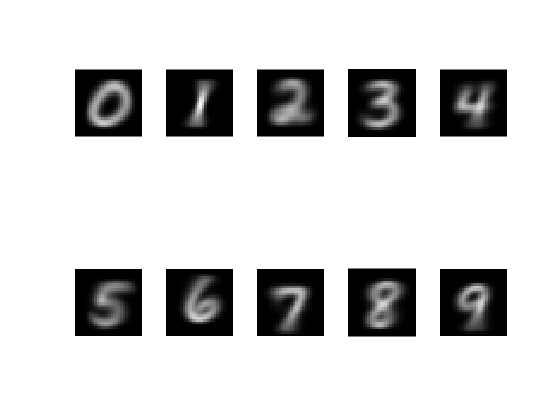
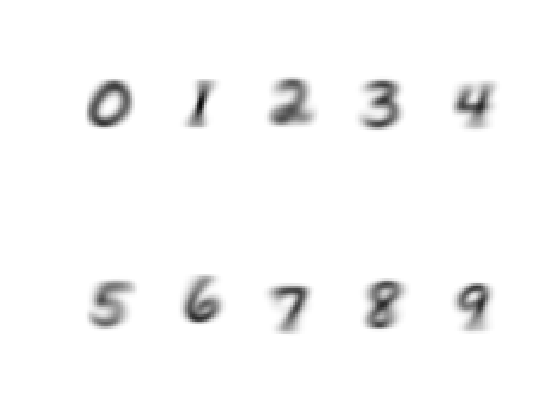
update

diff --git a/html/load_data.html b/html/load_data.html
@@ -6,7 +6,7 @@
    <!--
 This HTML was auto-generated from MATLAB code.
 To make changes, update the MATLAB code and republish this document.
-      --><title>load_data</title><meta name="generator" content="MATLAB 9.0"><link rel="schema.DC" href="http://purl.org/dc/elements/1.1/"><meta name="DC.date" content="2018-03-10"><meta name="DC.source" content="load_data.m"><style type="text/css">
+      --><title>load_data</title><meta name="generator" content="MATLAB 9.0"><link rel="schema.DC" href="http://purl.org/dc/elements/1.1/"><meta name="DC.date" content="2018-03-14"><meta name="DC.source" content="load_data.m"><style type="text/css">
 html,body,div,span,applet,object,iframe,h1,h2,h3,h4,h5,h6,p,blockquote,pre,a,abbr,acronym,address,big,cite,code,del,dfn,em,font,img,ins,kbd,q,s,samp,small,strike,strong,sub,sup,tt,var,b,u,i,center,dl,dt,dd,ol,ul,li,fieldset,form,label,legend,table,caption,tbody,tfoot,thead,tr,th,td{margin:0;padding:0;border:0;outline:0;font-size:100%;vertical-align:baseline;background:transparent}body{line-height:1}ol,ul{list-style:none}blockquote,q{quotes:none}blockquote:before,blockquote:after,q:before,q:after{content:'';content:none}:focus{outine:0}ins{text-decoration:none}del{text-decoration:line-through}table{border-collapse:collapse;border-spacing:0}
 
 html { min-height:100%; margin-bottom:1px; }
@@ -66,73 +66,13 @@ table td { padding:7px 5px; text-align:left; vertical-align:top; border:1px soli
 
 
 
-  </style></head><body><div class="content"><h2>Contents</h2><div><ul><li><a href="#2">Select digit</a></li><li><a href="#3">Visualize a selected train/test digit</a></li><li><a href="#4">Plot the average train digits</a></li></ul></div><pre class="codeinput"><span class="comment">%MAT 128b Project 2</span>
-<span class="comment">%Load MNIST data of handwritten digits</span>
+  </style></head><body><div class="content"><h2>Contents</h2><div><ul><li><a href="#1">load_data.m</a></li><li><a href="#2">Select digit</a></li><li><a href="#3">Visualize a selected train/test digit</a></li><li><a href="#4">Plot the average train digits</a></li></ul></div><h2>load_data.m<a name="1"></a></h2><pre class="codeinput"><span class="comment">%MAT 128b Project 2 - Part 1 &amp; 2</span>
+<span class="comment">%Load MNIST data &amp; Plot it</span>
 clear; clc; close <span class="string">all</span>;
 load <span class="string">mnistdata</span>;
-</pre><h2>Select digit<a name="2"></a></h2><pre class="codeinput">digit = 5;
+</pre><h2>Select digit<a name="2"></a></h2><pre class="codeinput">digit = 4;
 train = 1; <span class="comment">%if 0, will use test digit instead</span>
-</pre><h2>Visualize a selected train/test digit<a name="3"></a></h2><pre class="codeinput"><span class="keyword">if</span> digit == 0
-    <span class="keyword">if</span> train == 1
-        TestTrainDigit = train0;
-    <span class="keyword">else</span>
-        TestTrainDigit = test0;
-    <span class="keyword">end</span>
-<span class="keyword">elseif</span> digit == 1
-    <span class="keyword">if</span> train == 1
-        TestTrainDigit = train1;
-    <span class="keyword">else</span>
-        TestTrainDigit = test1;
-    <span class="keyword">end</span>
-<span class="keyword">elseif</span> digit == 2
-    <span class="keyword">if</span> train == 1
-        TestTrainDigit = train2;
-    <span class="keyword">else</span>
-        TestTrainDigit = test2;
-    <span class="keyword">end</span>
- <span class="keyword">elseif</span> digit == 3
-    <span class="keyword">if</span> train == 1
-        TestTrainDigit = train3;
-    <span class="keyword">else</span>
-        TestTrainDigit = test3;
-    <span class="keyword">end</span>
-<span class="keyword">elseif</span> digit == 4
-    <span class="keyword">if</span> train == 1
-        TestTrainDigit = train4;
-    <span class="keyword">else</span>
-        TestTrainDigit = test4;
-    <span class="keyword">end</span>
-<span class="keyword">elseif</span> digit == 5
-    <span class="keyword">if</span> train == 1
-        TestTrainDigit = train5;
-    <span class="keyword">else</span>
-        TestTrainDigit = test5;
-    <span class="keyword">end</span>
-<span class="keyword">elseif</span> digit == 6
-    <span class="keyword">if</span> train == 1
-        TestTrainDigit = train6;
-    <span class="keyword">else</span>
-        TestTrainDigit = test6;
-    <span class="keyword">end</span>
-<span class="keyword">elseif</span> digit == 7
-    <span class="keyword">if</span> train == 1
-        TestTrainDigit = train7;
-    <span class="keyword">else</span>
-        TestTrainDigit = test7;
-    <span class="keyword">end</span>
-<span class="keyword">elseif</span> digit == 8
-    <span class="keyword">if</span> train == 1
-        TestTrainDigit = train8;
-    <span class="keyword">else</span>
-        TestTrainDigit = test8;
-    <span class="keyword">end</span>
-<span class="keyword">elseif</span> digit == 9
-    <span class="keyword">if</span> train == 1
-        TestTrainDigit = train9;
-    <span class="keyword">else</span>
-        TestTrainDigit = test9;
-    <span class="keyword">end</span>
-<span class="keyword">end</span>
+</pre><h2>Visualize a selected train/test digit<a name="3"></a></h2><pre class="codeinput">TestTrainDigit = getMNIST(digit, train);
 
 <span class="comment">%Plot the desired digit</span>
 f1 = figure;
@@ -140,138 +80,57 @@ f1 = figure;
    digitImage = reshape(TestTrainDigit(i,:), 28, 28);
    subplot(1,3,i);
    image(rot90(flipud(digitImage), -1));
-   colormap(gray(256));
+   colormap(flipud(gray(256)));
    axis <span class="string">square</span> <span class="string">tight</span> <span class="string">off</span>;
 <span class="keyword">end</span>
-</pre><img vspace="5" hspace="5" src="load_data_01.png" alt=""> <h2>Plot the average train digits<a name="4"></a></h2><pre class="codeinput">T(1,:) = mean(train0);
-T(2,:) = mean(train1);
-T(3,:) = mean(train2);
-T(4,:) = mean(train3);
-T(5,:) = mean(train4);
-T(6,:) = mean(train5);
-T(7,:) = mean(train6);
-T(8,:) = mean(train7);
-T(9,:) = mean(train8);
-T(10,:) = mean(train9);
-
-digitImage_mean = zeros(28,28,10);
+</pre><img vspace="5" hspace="5" src="load_data_01.png" alt=""> <h2>Plot the average train digits<a name="4"></a></h2><pre class="codeinput">digitImage_mean = zeros(28,28,10);
 <span class="keyword">for</span> i = 1:10
-    digitImage_mean(:,:,i) = reshape(T(i,:),28,28);
+    digitImage_mean(:,:,i) = reshape(getTARGET(i-1),28,28);
 <span class="keyword">end</span>
 
 f2 = figure;
 <span class="keyword">for</span> i = 1:10
     subplot(2,5,i)
     image(rot90(flipud(digitImage_mean(:,:,i)),-1));
-    colormap(gray(256));
+    colormap(flipud(gray(256)));
     axis <span class="string">square</span> <span class="string">tight</span> <span class="string">off</span>;
 <span class="keyword">end</span>
 </pre><img vspace="5" hspace="5" src="load_data_02.png" alt=""> <p class="footer"><br><a href="http://www.mathworks.com/products/matlab/">Published with MATLAB&reg; R2016a</a><br></p></div><!--
 ##### SOURCE BEGIN #####
-%MAT 128b Project 2
-%Load MNIST data of handwritten digits
+%% load_data.m
+%MAT 128b Project 2 - Part 1 & 2
+%Load MNIST data & Plot it
 clear; clc; close all;
 load mnistdata;
 
 %% Select digit
-digit = 5;
+digit = 4;
 train = 1; %if 0, will use test digit instead
 
 %% Visualize a selected train/test digit
-if digit == 0
-    if train == 1
-        TestTrainDigit = train0;
-    else
-        TestTrainDigit = test0;
-    end
-elseif digit == 1
-    if train == 1
-        TestTrainDigit = train1;
-    else
-        TestTrainDigit = test1;
-    end
-elseif digit == 2
-    if train == 1
-        TestTrainDigit = train2;
-    else
-        TestTrainDigit = test2;
-    end
- elseif digit == 3
-    if train == 1
-        TestTrainDigit = train3;
-    else
-        TestTrainDigit = test3;
-    end
-elseif digit == 4
-    if train == 1
-        TestTrainDigit = train4;
-    else
-        TestTrainDigit = test4;
-    end
-elseif digit == 5
-    if train == 1
-        TestTrainDigit = train5;
-    else
-        TestTrainDigit = test5;
-    end
-elseif digit == 6
-    if train == 1
-        TestTrainDigit = train6;
-    else
-        TestTrainDigit = test6;
-    end
-elseif digit == 7
-    if train == 1
-        TestTrainDigit = train7;
-    else
-        TestTrainDigit = test7;
-    end
-elseif digit == 8
-    if train == 1
-        TestTrainDigit = train8;
-    else
-        TestTrainDigit = test8;
-    end    
-elseif digit == 9
-    if train == 1
-        TestTrainDigit = train9;
-    else
-        TestTrainDigit = test9;
-    end
-end
+TestTrainDigit = getMNIST(digit, train);
     
 %Plot the desired digit
 f1 = figure; 
 for i = 1:3
    digitImage = reshape(TestTrainDigit(i,:), 28, 28);
    subplot(1,3,i); 
-   image(rot90(flipud(digitImage), -1)); 
-   colormap(gray(256)); 
+   image(rot90(flipud(digitImage), -1));
+   colormap(flipud(gray(256))); 
    axis square tight off; 
 end 
 
 %% Plot the average train digits   
-T(1,:) = mean(train0); 
-T(2,:) = mean(train1); 
-T(3,:) = mean(train2); 
-T(4,:) = mean(train3); 
-T(5,:) = mean(train4); 
-T(6,:) = mean(train5); 
-T(7,:) = mean(train6); 
-T(8,:) = mean(train7); 
-T(9,:) = mean(train8); 
-T(10,:) = mean(train9); 
-
 digitImage_mean = zeros(28,28,10);
 for i = 1:10 
-    digitImage_mean(:,:,i) = reshape(T(i,:),28,28);
+    digitImage_mean(:,:,i) = reshape(getTARGET(i-1),28,28);
 end 
 
 f2 = figure; 
 for i = 1:10 
     subplot(2,5,i) 
     image(rot90(flipud(digitImage_mean(:,:,i)),-1)); 
-    colormap(gray(256)); 
+    colormap(flipud(gray(256))); 
     axis square tight off; 
 end
 ##### SOURCE END #####

diff --git a/train_net_main.m b/train_net_main.m
@@ -5,10 +5,10 @@ clear; clc; close all;
 load mnistdata;
 
 %% Initialize neural net parameters
-layers = 3;               %number of hidden layers [1,inf)
-neurons_hidden = 40;      %number of neurons per hidden layer
-trainingRate = .03;        %within the interval [0.01, 0.1]
-inputSize = 500000;        %number of digit image samples in the input
+layers = 1;               %number of hidden layers [1,inf)
+neurons_hidden = 100;      %number of neurons per hidden layer
+trainingRate = .05;        %within the interval [0.01, 0.1]
+inputSize = 100000;        %number of digit image samples in the input
 
 %Things you can't change
 neurons_input = 784;      %number of neurons in the input layer

diff --git a/load_data.m b/load_data.m
@@ -5,7 +5,7 @@ clear; clc; close all;
 load mnistdata;
 
 %% Select digit
-digit = 9;
+digit = 4;
 train = 1; %if 0, will use test digit instead
 
 %% Visualize a selected train/test digit
@@ -17,7 +17,7 @@ for i = 1:3
    digitImage = reshape(TestTrainDigit(i,:), 28, 28);
    subplot(1,3,i); 
    image(rot90(flipud(digitImage), -1));
-   colormap(gray(256)); 
+   colormap(flipud(gray(256))); 
    axis square tight off; 
 end 
 
@@ -31,6 +31,6 @@ f2 = figure;
 for i = 1:10 
     subplot(2,5,i) 
     image(rot90(flipud(digitImage_mean(:,:,i)),-1)); 
-    colormap(gray(256)); 
+    colormap(flipud(gray(256))); 
     axis square tight off; 
 end

diff --git a/neural_net.m b/neural_net.m
@@ -2,7 +2,7 @@
 %MAT 128b Project 2
 %Create neural net & test it
 clear; clc; close all;
-load W_master2;
+load W_master;
 
 %% Test the Neural Net
 F = @(NET) 1./(1+exp(-NET));
